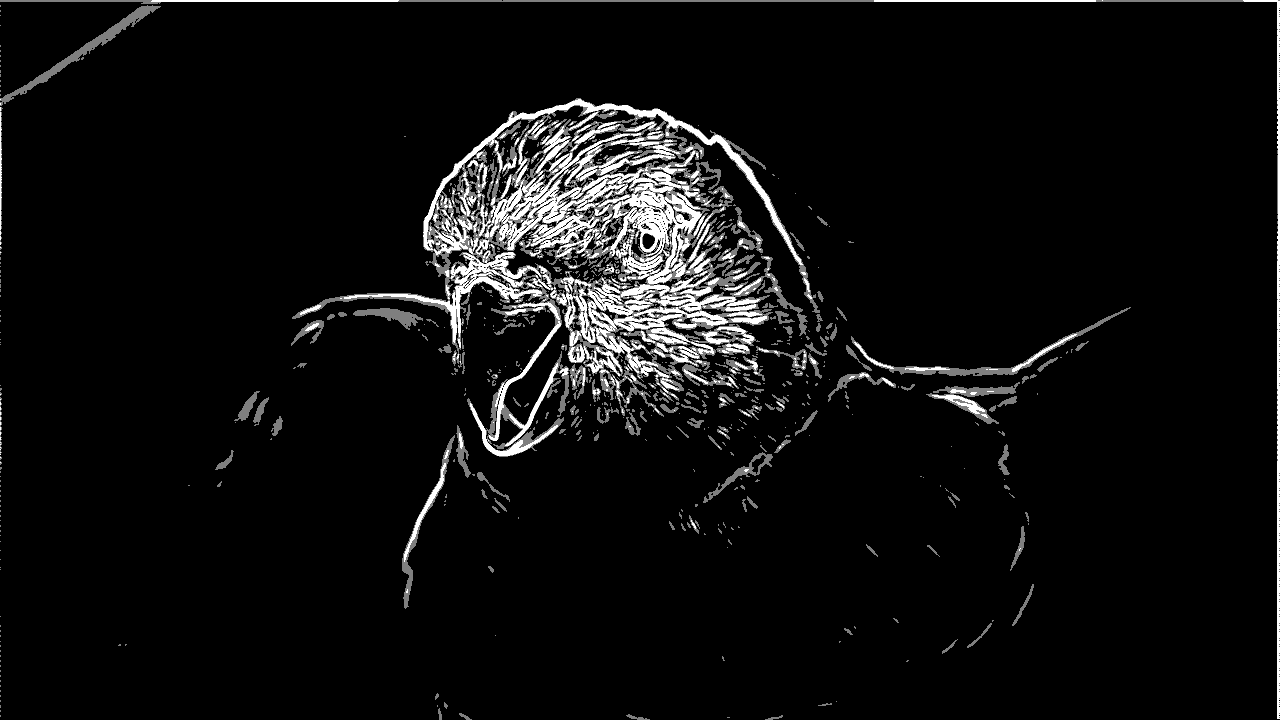
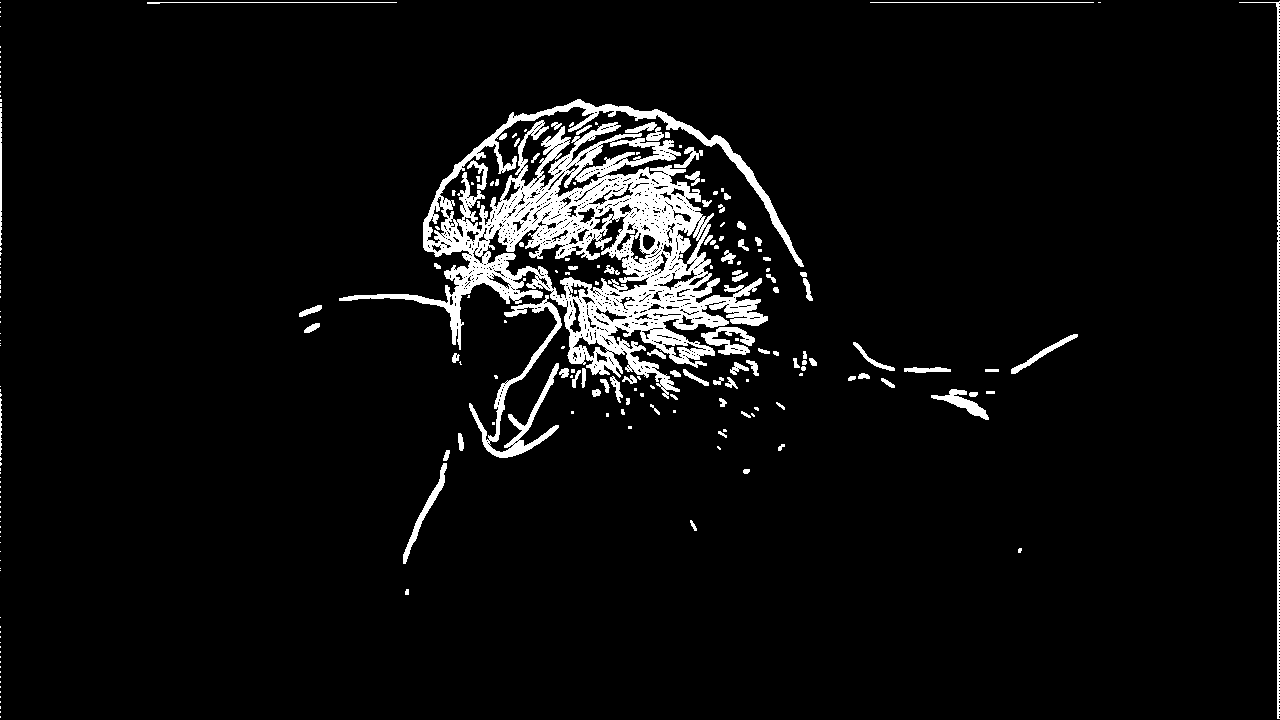
Edge_tracking

diff --git a/hls-canny/canny.cpp b/hls-canny/canny.cpp
@@ -141,6 +141,9 @@ void gaussian(pixel_stream &src, pixel_stream &dst)
 
 		// Set output pixel data
 		p_out.data = r2rgba(_pixel) | g2rgba(_pixel) | b2rgba(_pixel);
+	} else {
+		// Set output pixel data
+		p_out.data = p_in.data;
 	}
 
 	// Store the pixel value in the
@@ -281,7 +284,11 @@ void Sobel(pixel_stream &src, pixel_stream &dst, ap_uint<2> &grad_dir)
 		            grad_dir = 2;
 		        }
 
+	} else {
+		// Set output pixel data
+		p_out.data = p_in.data;
 	}
+
 	// Store the pixel value in the
 
 	// Write pixel to destination
@@ -462,6 +469,11 @@ void non_max_sup(pixel_stream &src, pixel_stream &dst, ap_uint<2> &grad_dir){
 
 		_pixel = value_current;
 	}
+	else {
+		// Set output pixel data
+		p_out.data = p_in.data;
+	}
+
 
 	// outputing
 
@@ -485,8 +497,99 @@ void non_max_sup(pixel_stream &src, pixel_stream &dst, ap_uint<2> &grad_dir){
 
 }
 
+
+
+void edge_tracking(pixel_stream &src, pixel_stream &dst)
+{
+// #pragma HLS INTERFACE ap_ctrl_none port = return
+// #pragma HLS INTERFACE axis port = &src
+// #pragma HLS INTERFACE axis port = &dst
+//  #pragma HLS INTERFACE s_axilite port = mask
+#pragma HLS PIPELINE II = 1
+
+	// Data to be stored across 'function calls'
+	static uint16_t x = 0; // X coordinate --> cols
+	static uint16_t y = 0; // Y coordinate
+
+	// Buffer to store the pixel values (to be used in the convolution)
+	static uint32_t buffer[3][WIDTH]; // Gaussian mask
+
+	// Window is used to perform the convolution in parallel
+	uint32_t window[3][3]; // Window
+
+	pixel_data p_in;
+
+	// Load input data from source
+	src >> p_in;
+
+	// Reset X and Y counters on user signal
+	if (p_in.user)
+		x = y = 0;
+
+	////////////////////////////////
+
+	// Pixel data to be stored across 'function calls'
+	static pixel_data p_out;
+
+	uint8_t pixel = rgba2r(p_in.data);
+	// Store pixel value in buffer
+	if (x < WIDTH)
+		// Store the pixel value in the buffer
+		buffer[y % 3][x] = pixel;
+
+	const uint32_t strong_edge = r2rgba(STRONG_EDGE) | g2rgba(STRONG_EDGE) | b2rgba(STRONG_EDGE);
+	// Check if we have enough data to perform the convolution
+	if (y >= 2)
+	{
+		if (buffer[(y - 1) % 3][x - 1] == WEAK_EDGE){
+			if (buffer[(y - 2) % 3][x - 2] == STRONG_EDGE ||
+				buffer[(y - 2) % 3][x - 1] == STRONG_EDGE ||
+				buffer[(y - 2) % 3][x] == STRONG_EDGE ||
+				buffer[(y - 1) % 3][x - 2] == STRONG_EDGE ||
+				buffer[(y - 1) % 3][x] == STRONG_EDGE ||
+				buffer[(y) % 3][x - 2] == STRONG_EDGE ||
+				buffer[(y) % 3][x - 1] == STRONG_EDGE ||
+				buffer[(y) % 3][x] == STRONG_EDGE
+				) {
+					p_out.data = strong_edge;
+				} else {
+					p_out.data = NO_EDGE;
+				}
+		} else if (buffer[(y - 1) % 3][x - 1] == NO_EDGE) {
+			p_out.data = NO_EDGE;
+		} else
+			p_out.data = strong_edge;
+
+
+	}
+	else {
+		// Set output pixel data
+		p_out.data = NO_EDGE;
+	}
+
+
+	// Store the pixel value in the
+
+	// Write pixel to destination
+	dst << p_out;
+
+	// Need to change this
+	p_out = p_in;
+	////////////////////////////////
+
+	// Increment X and Y counters
+	if (p_in.last)
+	{
+		// Stored a row of pixels
+		x = 0;
+		y++;
+	}
+	else
+		x++;
+}
+
 // Stream function
-pixel_stream gray, sobel, gauss, n_max;
+pixel_stream gray, sobel, gauss, n_max, db_thresh;
 ap_uint<2> grad_dir = 0;
 void stream(pixel_stream &src, pixel_stream &dst, int frame)
 {
@@ -494,6 +597,7 @@ void stream(pixel_stream &src, pixel_stream &dst, int frame)
 #pragma HLS STREAM variable = gauss depth = 1 dim = 1
 #pragma HLS STREAM variable = sobel depth = 1 dim = 1
 #pragma HLS STREAM variable = n_max depth = 1 dim = 1
+#pragma HLS STREAM variable = db_thresh depth = 1 dim = 1
 	// 0. rgb2gray
 
 	rgb2gray(src, gray);
@@ -510,6 +614,9 @@ void stream(pixel_stream &src, pixel_stream &dst, int frame)
 	// non_max_suppression(sobel, dst, grad_dir);
 
 	// 4. Double threshold
-	double_threshold(n_max, dst);
-//
+	double_threshold(n_max, db_thresh);
+
+	// 5. Edge tracking
+	edge_tracking(db_thresh, dst);
+
 }

diff --git a/hls-canny/canny.hpp b/hls-canny/canny.hpp
@@ -76,3 +76,5 @@ void Sobel(pixel_stream &src, pixel_stream &dst, ap_uint<2> &grad_dir);
 void non_max_sup(pixel_stream &src, pixel_stream &dst, ap_uint<2> &grad_dir);
 
 void double_threshold(pixel_stream &src, pixel_stream &dst);
+
+void edge_tracking(pixel_stream &src, pixel_stream &dst);
